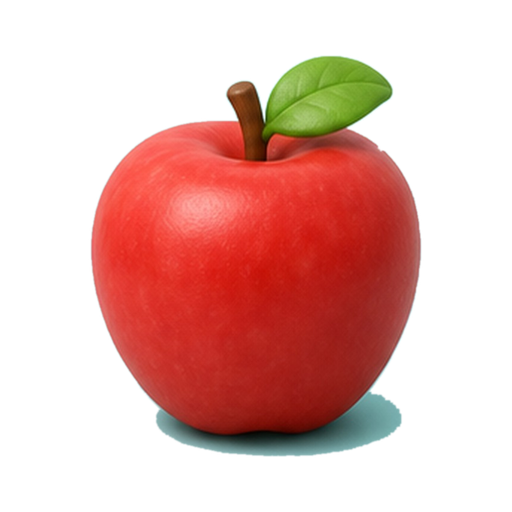
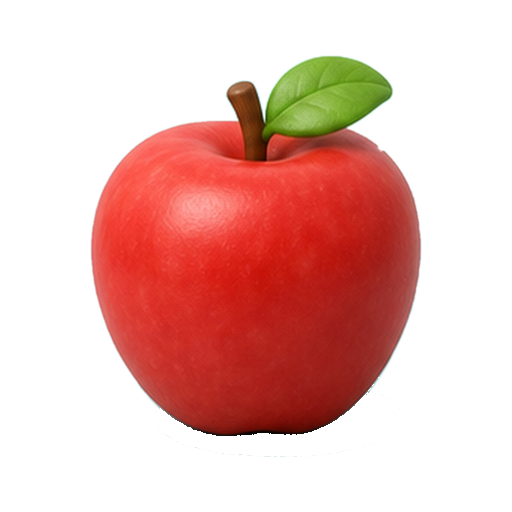
Raise start screen and add audio toggles

Changed region(s): [[0.2812, 0.75, 0.7812, 0.9062]]

diff --git a/src/main.js b/src/main.js
@@ -42,6 +42,8 @@ const videoPrevButton = document.querySelector("#video-prev-button");
 const videoNextButton = document.querySelector("#video-next-button");
 const questionPrevButton = document.querySelector("#question-prev-button");
 const questionNextButton = document.querySelector("#question-next-button");
+const musicMuteButtons = [...document.querySelectorAll(".music-mute-button")];
+const voiceMuteButtons = [...document.querySelectorAll(".voice-mute-button")];
 const progressPill = document.querySelector("#progress-pill");
 const starsPill = document.querySelector("#stars-pill");
 const questionText = document.querySelector("#question-text");
@@ -54,6 +56,11 @@ const rewardVideoCard = rewardVideoPanel?.querySelector(".video-card");
 const dragonPuppet = document.querySelector("#dragon-puppet");
 const dragonMouthTarget = document.querySelector("#dragon-mouth-target");
 const dragonFireBreath = document.querySelector("#dragon-fire-breath");
+
+const AUDIO_PREF_KEYS = {
+  musicMuted: "dragonGameMusicMuted",
+  voiceMuted: "dragonGameVoiceMuted"
+};
 
 const state = {
   screen: "start",
@@ -75,6 +82,8 @@ const state = {
   rewardVideoSkippable: false,
   rewardVideoKind: "card",
   rewardVideoIndex: 0,
+  musicMuted: readStoredAudioPreference(AUDIO_PREF_KEYS.musicMuted),
+  voiceMuted: readStoredAudioPreference(AUDIO_PREF_KEYS.voiceMuted),
   completedQuestionIds: new Set()
 };
 
@@ -232,7 +241,7 @@ const startScene = makeScene(document.querySelector("#start-canvas"), { decorati
 playButton.addEventListener("click", startGame);
 playAgainButton.addEventListener("click", startGame);
 repeatButton.addEventListener("click", () => {
-  if (!state.locked || state.promptSpeaking) return;
+  if (!state.locked || state.promptSpeaking || state.voiceMuted) return;
   void playQuestionPrompt(0);
 });
 videoCloseButton.addEventListener("click", () => {
@@ -245,6 +254,12 @@ videoPrevButton.addEventListener("click", () => changeRewardVideo(-1));
 videoNextButton.addEventListener("click", advanceRewardVideo);
 questionPrevButton.addEventListener("click", () => navigateQuestion(-1));
 questionNextButton.addEventListener("click", () => navigateQuestion(1));
+musicMuteButtons.forEach((button) => {
+  button.addEventListener("click", () => setMusicMuted(!state.musicMuted));
+});
+voiceMuteButtons.forEach((button) => {
+  button.addEventListener("click", () => setVoiceMuted(!state.voiceMuted));
+});
 videoPlayButton.addEventListener("click", () => {
   if (state.rewardVideoDirectOpen) {
     window.open(rewardVideo.currentSrc || rewardVideo.src, "_blank", "noopener");
@@ -274,6 +289,7 @@ rewardVideo.addEventListener("loadeddata", () => {
 window.addEventListener("resize", resizeAll);
 
 renderFoodTray();
+updateAudioControls();
 resizeAll();
 animate(0);
 
@@ -400,6 +416,7 @@ async function startGame() {
   celebrationPanel.hidden = true;
   renderFoodTray();
   updateHud();
+  updateAudioControls();
   updateQuestionNav();
   resizeAll();
 }
@@ -711,9 +728,10 @@ async function playQuestionPrompt(delayMs = 0) {
   ]);
   if (run !== state.promptRun || state.screen !== "playing" || questionPanel.hidden) return;
   state.promptSpeaking = false;
-  repeatButton.disabled = false;
+  repeatButton.disabled = state.voiceMuted;
   rerenderAnswersOnly();
   updateQuestionNav();
+  updateAudioControls();
 }
 
 function selectAnswer(answer) {
@@ -1237,6 +1255,67 @@ function clearRepeatTimer() {
   }
 }
 
+function readStoredAudioPreference(key) {
+  try {
+    return window.localStorage.getItem(key) === "true";
+  } catch {
+    return false;
+  }
+}
+
+function writeStoredAudioPreference(key, value) {
+  try {
+    window.localStorage.setItem(key, value ? "true" : "false");
+  } catch {
+    // Local storage can be unavailable in restricted browser modes.
+  }
+}
+
+function setMusicMuted(muted) {
+  state.musicMuted = muted;
+  writeStoredAudioPreference(AUDIO_PREF_KEYS.musicMuted, muted);
+  if (muted) {
+    stopBackgroundMusic();
+  } else if (state.screen === "playing") {
+    void startBackgroundMusic();
+  }
+  updateAudioControls();
+}
+
+function setVoiceMuted(muted) {
+  state.voiceMuted = muted;
+  writeStoredAudioPreference(AUDIO_PREF_KEYS.voiceMuted, muted);
+  if (muted) {
+    stopSpokenAudio();
+    if (state.screen === "playing" && !questionPanel.hidden && state.promptSpeaking) {
+      state.promptRun += 1;
+      state.promptSpeaking = false;
+      repeatButton.disabled = true;
+      rerenderAnswersOnly();
+      updateQuestionNav();
+    }
+  } else if (state.screen === "playing" && !questionPanel.hidden) {
+    repeatButton.disabled = false;
+  }
+  updateAudioControls();
+}
+
+function updateAudioControls() {
+  musicMuteButtons.forEach((button) => {
+    button.classList.toggle("is-muted", state.musicMuted);
+    button.setAttribute("aria-pressed", state.musicMuted ? "true" : "false");
+    button.setAttribute("aria-label", state.musicMuted ? "Unmute background music" : "Mute background music");
+  });
+  voiceMuteButtons.forEach((button) => {
+    button.classList.toggle("is-muted", state.voiceMuted);
+    button.setAttribute("aria-pressed", state.voiceMuted ? "true" : "false");
+    button.setAttribute("aria-label", state.voiceMuted ? "Unmute voice prompts" : "Mute voice prompts");
+  });
+  if (!questionPanel.hidden) {
+    repeatButton.disabled = state.voiceMuted || state.promptSpeaking;
+  }
+}
+
 async function unlockAudio() {
   try {
     const AudioContextClass = window.AudioContext || window.webkitAudioContext;
@@ -1253,6 +1332,7 @@ async function unlockAudio() {
 async function playAudioOrSpeak(src, text, delayMs = 0) {
   if (delayMs) await wait(delayMs);
   stopSpokenAudio();
+  if (state.voiceMuted) return "muted";
   duckBackgroundMusic(true);
   try {
     try {
@@ -1439,6 +1519,7 @@ function stopDragonAmbience() {
 }
 
 async function startBackgroundMusic() {
+  if (state.musicMuted) return;
   await unlockAudio();
   if (backgroundMusic || backgroundBufferMusic) return;
   try {
@@ -1457,6 +1538,24 @@ async function startBackgroundMusic() {
     played.catch(() => {
       backgroundMusic = null;
     });
+  }
+}
+
+function stopBackgroundMusic() {
+  if (backgroundMusic) {
+    backgroundMusic.pause();
+    backgroundMusic.currentTime = 0;
+    backgroundMusic = null;
+  }
+  if (backgroundBufferMusic) {
+    try {
+      backgroundBufferMusic.source.stop();
+      backgroundBufferMusic.source.disconnect();
+      backgroundBufferMusic.gain.disconnect();
+    } catch {
+      // The background track may already have stopped.
+    }
+    backgroundBufferMusic = null;
   }
 }
 
@@ -1479,6 +1578,7 @@ async function startBufferedBackgroundMusic() {
 
 function duckBackgroundMusic(ducked) {
   backgroundMusicDucked = ducked;
+  if (state.musicMuted) return;
   const volume = ducked ? BACKGROUND_MUSIC_DUCKED_VOLUME : BACKGROUND_MUSIC_VOLUME;
   if (backgroundMusic) {
     backgroundMusic.volume = volume;

diff --git a/src/styles.css b/src/styles.css
@@ -533,7 +533,8 @@ p {
 
 .button-icon,
 .reset-icon,
-.sound-icon {
+.sound-icon,
+.music-icon {
   position: relative;
   flex: 0 0 auto;
   width: 22px;
@@ -580,6 +581,75 @@ p {
   border: 2px solid currentColor;
   border-left: 0;
   border-radius: 0 999px 999px 0;
+}
+
+.music-icon::before {
+  position: absolute;
+  content: "";
+  left: 12px;
+  top: 2px;
+  width: 4px;
+  height: 14px;
+  border-radius: 3px;
+  background: currentColor;
+}
+
+.music-icon::after {
+  position: absolute;
+  content: "";
+  left: 4px;
+  bottom: 2px;
+  width: 12px;
+  height: 9px;
+  border-radius: 50%;
+  background: currentColor;
+  box-shadow: 8px -11px 0 -3px currentColor;
+}
+
+.audio-control-row {
+  position: relative;
+  z-index: 4;
+  display: flex;
+  justify-content: center;
+  gap: 10px;
+}
+
+.start-audio-controls {
+  margin-top: 12px;
+}
+
+.game-audio-controls {
+  width: 100%;
+  pointer-events: auto;
+}
+
+.audio-toggle-button {
+  position: relative;
+  display: grid;
+  width: 44px;
+  height: 44px;
+  place-items: center;
+  border: 1px solid rgba(255, 255, 255, 0.76);
+  border-radius: 50%;
+  color: #17362f;
+  background: rgba(255, 255, 248, 0.84);
+  box-shadow: 0 10px 22px rgba(42, 70, 63, 0.14);
+  backdrop-filter: blur(12px);
+  cursor: pointer;
+}
+
+.audio-toggle-button.is-muted {
+  opacity: 0.72;
+}
+
+.audio-toggle-button.is-muted::after {
+  position: absolute;
+  content: "";
+  width: 30px;
+  height: 3px;
+  border-radius: 999px;
+  background: currentColor;
+  transform: rotate(-42deg);
 }
 
 .game-header {
@@ -1252,6 +1322,27 @@ p {
 
   .app-shell {
     min-height: 860px;
+  }
+
+  .start-screen {
+    min-height: 0;
+    align-content: center;
+    padding: 18px;
+  }
+
+  .start-art::after {
+    bottom: clamp(18px, 5vh, 56px);
+    width: min(360px, 92vw);
+  }
+
+  .start-copy,
+  .start-screen .primary-button,
+  .start-audio-controls {
+    transform: translateY(-96px);
+  }
+
+  .start-copy {
+    width: min(640px, calc(100vw - 36px));
   }
 
   .food-tray {

diff --git a/index.html b/index.html
@@ -20,6 +20,14 @@
           <span class="button-icon" aria-hidden="true"></span>
           Play
         </button>
+        <div class="audio-control-row start-audio-controls" aria-label="Audio controls">
+          <button class="audio-toggle-button music-mute-button" type="button" aria-label="Mute background music" aria-pressed="false">
+            <span class="music-icon" aria-hidden="true"></span>
+          </button>
+          <button class="audio-toggle-button voice-mute-button" type="button" aria-label="Mute voice prompts" aria-pressed="false">
+            <span class="sound-icon" aria-hidden="true"></span>
+          </button>
+        </div>
       </section>
 
       <section id="game-screen" class="screen game-screen" hidden>
@@ -66,6 +74,14 @@
             </button>
             <button id="question-next-button" class="question-nav-button" type="button" aria-label="Next card">
               Next
+            </button>
+          </div>
+          <div class="audio-control-row game-audio-controls" aria-label="Audio controls">
+            <button class="audio-toggle-button music-mute-button" type="button" aria-label="Mute background music" aria-pressed="false">
+              <span class="music-icon" aria-hidden="true"></span>
+            </button>
+            <button class="audio-toggle-button voice-mute-button" type="button" aria-label="Mute voice prompts" aria-pressed="false">
+              <span class="sound-icon" aria-hidden="true"></span>
             </button>
           </div>
         </header>